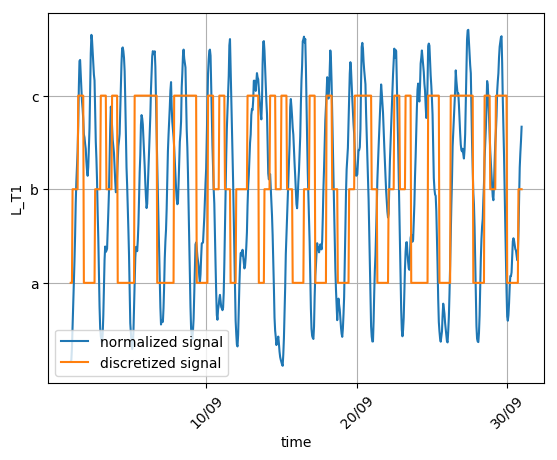
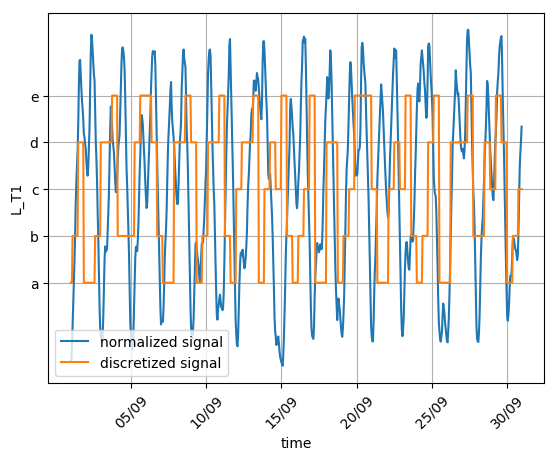
N grams improved

diff --git a/anomaly_detection/discretization.py b/anomaly_detection/discretization.py
@@ -6,7 +6,8 @@ from saxpy.sax import sax_by_chunking
 from saxpy.znorm import znorm
 from math import ceil
 from nltk import ngrams
-from statistics import mode
+import warnings
+warnings.filterwarnings("ignore")
 
 
 def add_labels(df, test=True):
@@ -23,16 +24,30 @@ def add_labels(df, test=True):
         y = df['ATT_FLAG']  # separate the target values
         df.drop(['ATT_FLAG'], axis=1, inplace=True)
     else:
-        df['2016-09-13 23': '2016-09-16 00', 'ATT_FLAG'] = 1
-        df['2016-09-26 11': '2016-09-27 10', 'ATT_FLAG'] = 1
-        df['2016-10-09 16': '2016-10-11 20', 'ATT_FLAG'] = 1
-        df['2016-10-29 19': '2016-11-02 16', 'ATT_FLAG'] = 1
-        df['2016-11-26 17': '2016-11-29 04', 'ATT_FLAG'] = 1
-        df['2016-12-06 07': '2016-12-10 04', 'ATT_FLAG'] = 1
-        df['2016-12-14 15': '2016-12-19 04', 'ATT_FLAG'] = 1
+        df.loc['2016-09-13 23': '2016-09-16 00', 'ATT_FLAG'] = 1
+        df.loc['2016-09-26 11': '2016-09-27 10', 'ATT_FLAG'] = 1
+        df.loc['2016-10-09 16': '2016-10-11 20', 'ATT_FLAG'] = 1
+        df.loc['2016-10-29 19': '2016-11-02 16', 'ATT_FLAG'] = 1
+        df.loc['2016-11-26 17': '2016-11-29 04', 'ATT_FLAG'] = 1
+        df.loc['2016-12-06 07': '2016-12-10 04', 'ATT_FLAG'] = 1
+        df.loc['2016-12-14 15': '2016-12-19 04', 'ATT_FLAG'] = 1
         y = df['ATT_FLAG']
         df.drop(['ATT_FLAG'], axis=1, inplace=True)
     return df, y
+
+
+def confusion_results(predicted, true):
+    TP, FP, TN, FN = 0, 0, 0, 0
+    for p, t in zip(predicted, true):
+        if p and t:
+            TP += 1
+        elif p and t!=1:
+            FP += 1
+        elif not p and t:
+            FN += 1
+        else:
+            TN += 1
+    return TP, FP, TN, FN
 
 
 def uncompress_labels(compressed_data, n, w):
@@ -45,19 +60,12 @@ def uncompress_labels(compressed_data, n, w):
     return uncompressed
 
 
-def compress_labels(data, w):
-    compressed = []
-    step = ceil(len(data)/w)
-    for i in range(0, len(data), step):
-        compressed += [mode(data[i:min(len(data), i+step)])]
-    return compressed  # TODO: check if the final length is correct
-
-
 def discretize_data(data, w, features, start_date, end_date, dataset, plotting):
-    alphabet = 3
-    symbol_to_number = {'a': -1, 'b': 0, 'c': 1}
+    alphabet = 5
+    symbol_to_number = {'a': -1, 'b': -0.5, 'c': 0, 'd': 0.5, 'e': 1}
     sax_seqs = {}
     for feature in features:
+        print('------------------------------------- Discretizing %s -------------------------------------' % feature)
         sax_str = sax_by_chunking(np.array(data[feature]), w, alphabet)
         sax_seqs[feature] = sax_str
 
@@ -76,14 +84,14 @@ def discretize_data(data, w, features, start_date, end_date, dataset, plotting):
             plt.xlabel("time")
             plt.ylabel(feature)
             plt.xticks(rotation=45)
-            plt.yticks(np.array([-1, 0, 1]), ('a', 'b', 'c'))
+            plt.yticks(np.array(list(symbol_to_number.values())), tuple(symbol_to_number.keys()))
             plt.grid()
             plt.legend()
             plt.savefig('plots/sax/%s_discretization_%s.png' % (dataset, feature), bbox_inches='tight')
     return sax_seqs
 
 
-def train_normal_ngram(dsc_train, w):
+def train_ngram(dsc_train, w):
     # states object
     states = {}
     sequences = {}
@@ -97,7 +105,7 @@ def train_normal_ngram(dsc_train, w):
     try:
         while True:
             # get the next gram
-            gram = all_ngrams.next()
+            gram = next(all_ngrams)
 
             # create key string
             curr = ''.join(gram)
@@ -108,19 +116,20 @@ def train_normal_ngram(dsc_train, w):
 
             # check if greater subsequence
             if prev_key != key:
-                if prev_key not in sequences.keys() and prev_key != '':
-                    sequences[prev_key] = seq
-                else:
-                    if sequences[prev_key] < seq:
+                if prev_key != '':
+                    if prev_key not in sequences.keys():
                         sequences[prev_key] = seq
+                    else:
+                        if sequences[prev_key] < seq:
+                            sequences[prev_key] = seq
                 seq = 1
             else:
                 seq += 1
 
             cnt += 1
-
             # store the old key
             prev = curr
+            prev_key = key
     except StopIteration:
         pass
 
@@ -128,50 +137,6 @@ def train_normal_ngram(dsc_train, w):
         states[key] = states[key] / cnt
 
     return states, sequences
-
-
-def train_abnormal_ngram(dsc_train, w, anomalies):
-    # states object
-    states = {}
-    is_anomaly = set()
-
-    # get the ngrams for the training data
-    all_ngrams = ngrams(list(dsc_train), w)
-    cnt = 0.0
-    prev = ""
-    j = 0
-    try:
-        while True:
-            # get the next gram
-            gram = all_ngrams.next()
-
-            # create key string
-            curr = ''.join(gram)
-            key = prev + '-' + curr
-
-            # check if the transition already existed
-            states[key] = states[key] + 1 if key in states.keys() else 1
-            cnt += 1
-
-            # check if anomaly and add it to the anomaly set
-            if anomalies[j]:
-                is_anomaly.add(key)
-
-            # store the old key
-            prev = curr
-            j += 1
-
-    except StopIteration:
-        pass
-
-    for key in states.keys():
-        states[key] = states[key] / cnt
-
-    threshold = 1.01
-    for s in is_anomaly:
-        threshold = states[s] if threshold > states[s] else threshold
-
-    return threshold
 
 
 def test_ngram(dsc_test, w, threshold, states, sequences):
@@ -184,7 +149,7 @@ def test_ngram(dsc_test, w, threshold, states, sequences):
     try:
         while True:
             # get the next gram
-            gram = test_grams.next()
+            gram = next(test_grams)
 
             # create key string
             curr = ''.join(gram)
@@ -207,6 +172,7 @@ def test_ngram(dsc_test, w, threshold, states, sequences):
 
             # store the old key
             prev = curr
+            prev_key = key
     except StopIteration:
         pass
 
@@ -215,8 +181,8 @@ def test_ngram(dsc_test, w, threshold, states, sequences):
 
 def plot_anomalies(true_anomalies, predicted_anomalies, sensor):
     fig, ax = plt.subplots()
-    ax.plot(true_anomalies.index, true_anomalies, label='True')
-    ax.plot(true_anomalies.index, predicted_anomalies, label='Predicted')
+    ax.fill_between(true_anomalies.index, true_anomalies, label='True', alpha=0.5)
+    ax.fill_between(true_anomalies.index, predicted_anomalies, label='Predicted', alpha=0.5)
     ax.xaxis.set_major_locator(mdates.DayLocator([5, 10, 15, 20, 25, 30]))
     ax.xaxis.set_major_formatter(mdates.DateFormatter('%d/%m'))
     ax.set_ylabel('Attacks')
@@ -242,18 +208,28 @@ if __name__ == '__main__':
     test_df, true_anomalies = add_labels(test_df)
 
     print('Discretizing the data with SAX...')
-    dsc_sensors = discretize_data(train_df1, 1000, ['L_T1', 'L_T3', 'L_T4', 'L_T5', 'L_T6', 'L_T7', 'F_PU1', 'F_PU4'
-        , 'F_PU10', 'P_J14', 'P_J422'], '2014-09-01', '2014-09-30', 'train1', True)
-    dsc_sensors_tr2 = discretize_data(train_df2, 1000, ['L_T1', 'L_T3', 'L_T4', 'L_T5', 'L_T6', 'L_T7', 'F_PU1', 'F_PU4'
-        , 'F_PU10', 'P_J14', 'P_J422'], '2016-07-04', '2016-07-30', 'train2', False)
-    dsc_sensors_tst = discretize_data(test_df, 1000, ['L_T1', 'L_T3', 'L_T4', 'L_T5', 'L_T6', 'L_T7', 'F_PU1', 'F_PU4'
-        , 'F_PU10', 'P_J14', 'P_J422'], '2017-01-04', '2017-01-30', 'test', False)
+    # ['L_T1', 'L_T3', 'L_T4', 'L_T5', 'L_T6', 'L_T7', 'F_PU1', 'F_PU4', 'F_PU10', 'P_J14', 'P_J422']
+    dsc_sensors = discretize_data(train_df1, 1000, ['L_T1', 'F_PU4', 'P_J14'], '2014-09-01', '2014-09-30', 'train1',
+                                  False)
+    dsc_sensors_tr2 = discretize_data(train_df2, 1000, ['L_T1', 'F_PU4', 'P_J14'], '2016-07-04', '2016-07-30', 'train2',
+                                      False)
+    dsc_sensors_tst = discretize_data(test_df, 1000, ['L_T1', 'F_PU4', 'P_J14'], '2017-01-04', '2017-01-30', 'test',
+                                      False)
 
     print('N-gram calculation...')
     ngram_results = {}
     for sensor in dsc_sensors.keys():
-        states, sequences = train_normal_ngram(dsc_sensors[sensor], 2)
-        threshold = train_abnormal_ngram(dsc_sensors_tr2[sensor], 2, train2_anomalies)
+        print('------------------------------------- Training on %s -------------------------------------' % sensor)
+        states, sequences = train_ngram(dsc_sensors[sensor], 2)
+        threshold = 1.01
+        max_Scm = 0
+        for t in [1e-3, 1e-4, 1e-5, 1e-6]:
+            trained_anomalies = test_ngram(dsc_sensors_tr2[sensor], 2, t, states, sequences)
+            uncompressed_anomalies = uncompress_labels(trained_anomalies, len(train2_anomalies), len(trained_anomalies))
+            TP, FP, TN, FN = confusion_results(uncompressed_anomalies, list(train2_anomalies))
+            print('TP: %d, FP: %d, TN: %d, FN: %d' % (TP, FP, TN, FN))
+            if (TP/(TP+FN) + TN/(TN+FP))/2 > max_Scm:
+                threshold = t
         anomalies = test_ngram(dsc_sensors_tst[sensor], 2, threshold, states, sequences)
         ngram_results[sensor] = uncompress_labels(anomalies, len(true_anomalies), len(anomalies))
         plot_anomalies(true_anomalies, ngram_results[sensor], sensor)
